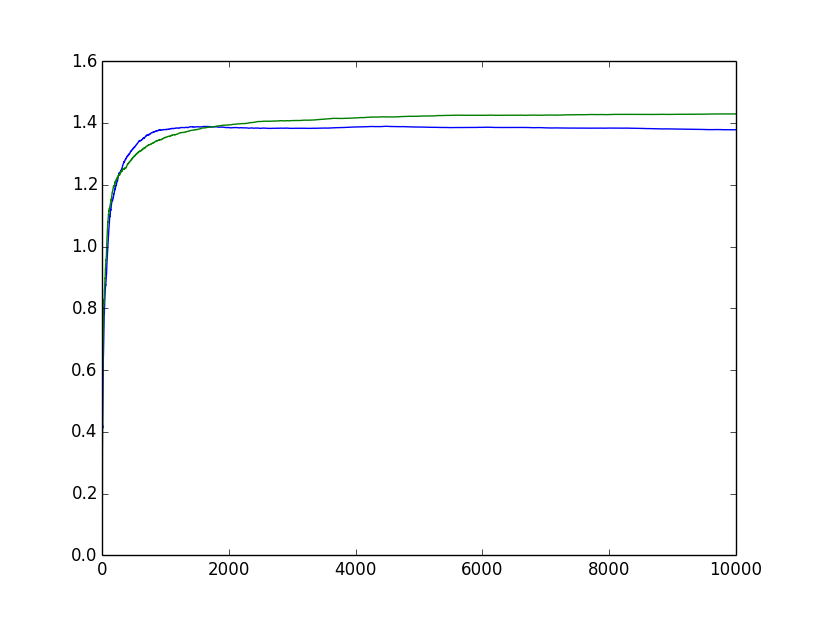
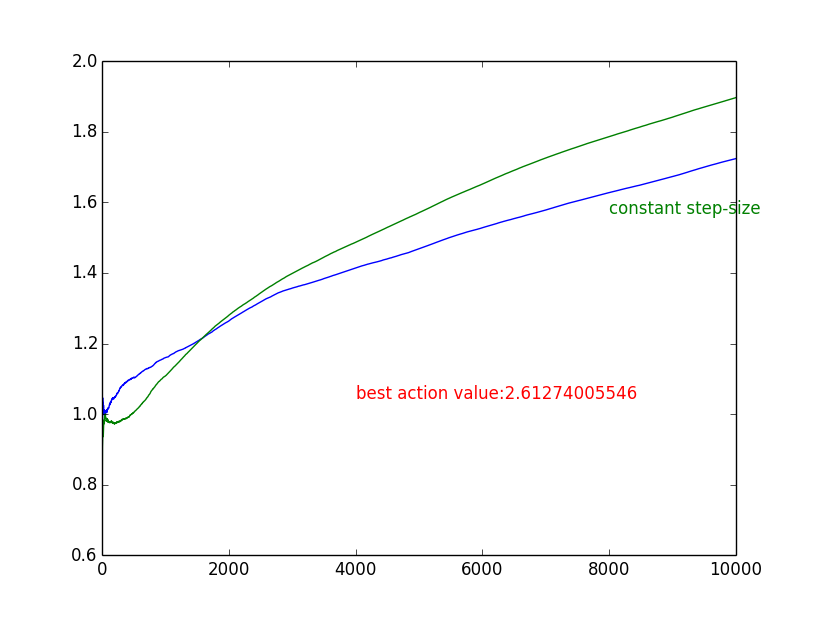
m

diff --git a/exercise/exec2.5.py b/exercise/exec2.5.py
@@ -1,26 +1,41 @@
 import numpy as np
 import time
 
+# np.random.seed(  9173 )
+
+
 means = [ 0.2, -0.8, 1.6, 0.4, 1.4,  -1.4 , -0.2, -0.9, 0.8 , -0.5  ]
 sigma = 0.6
 epsilon = 0.1
 
 nStep = 10000
-nExperiment = 20 #00 
+nExperiment = 30 #00 
 
+
+bMofified10Arm = True
+
+means_equal = np.array([ 1.0 ] * 10)
+means_random_walk = np.random.normal( loc=0.0, scale=0.01, size=( nExperiment , nStep , 10 ) )
 
 def bandit( A) :
-    return np.random.normal( means[A] , sigma  )
+    if bMofified10Arm:
+        return  np.random.normal( means_equal[A] , sigma  )
+    else:
+        return  np.random.normal( means[A] , sigma  )
 
 # for sample average
 averageRewards0 = np.zeros( ( nExperiment, nStep) )
 
 def sample_average_experiment( idx  ):
+    global means_equal
     nActions = len(means )
+
     Q = np.zeros( nActions )
     N = np.zeros( nActions, dtype=int )
 
     total = 0.0
+    if bMofified10Arm:
+        means_equal.fill( 1.0)
     # print Q 
     for i in xrange( nStep ) :
         if np.random.random() <= epsilon :
@@ -32,23 +47,29 @@ def sample_average_experiment( idx  ):
         N[A] = N[A] + 1
         Q[A] = Q[A] + (R - Q[A])/N[A] 
         
-        # 1. make Nonstationary 
-        Q[A] += np.random.normal( 0, 0.01 )
-        
         total += R 
         averageRewards0[idx][i] = total/(i+1)
+
+        if bMofified10Arm:
+            means_equal += means_random_walk[idx][i]
+
+
 
 
 # for constant step 
 averageRewards1 = np.zeros( ( nExperiment, nStep) )
 
 def constant_step_experiment( idx  ):
+    global means_equal
     nActions = len(means )
+
     Q = np.zeros( nActions )
     N = np.zeros( nActions, dtype=int )
 
     total = 0.0
     alpha = 0.1
+    if bMofified10Arm:
+        means_equal.fill( 1.0)
     # print Q 
     for i in xrange( nStep ) :
         if np.random.random() <= epsilon :
@@ -60,23 +81,27 @@ def constant_step_experiment( idx  ):
         N[A] = N[A] + 1
 
         # Q[A] = Q[A] + (R - Q[A])/N[A] 
-        # 2. the only change for a constant step 
+        # the only change for a constant step 
         Q[A] = Q[A] + alpha*( R - Q[A] )
 
-        # 1. make Nonstationary 
-        Q[A] += np.random.normal( 0, 0.01 )
-        
         total += R 
         averageRewards1[idx][i] = total/(i+1)
+
+        if bMofified10Arm:
+            means_equal += means_random_walk[idx][i]
 
 
 
 if __name__ == "__main__" :
     print max( means )
+
     for i in xrange( nExperiment ):
         sample_average_experiment(i)
     for i in xrange( nExperiment ):
         constant_step_experiment(i)
+
+    best_q =  1 + means_random_walk.sum( 1 ).max(1).mean()
+    print best_q
 
     averageReward4eachStep0 = averageRewards0.mean( 0 )
     averageReward4eachStep1 = averageRewards1.mean( 0 )
@@ -84,6 +109,10 @@ if __name__ == "__main__" :
     import matplotlib.pyplot as plt
     plt.plot( xrange( nStep ) ,    averageReward4eachStep0 )
     plt.plot( xrange( nStep ) ,    averageReward4eachStep1 )
+    plt.text( 8000,  best_q * 0.6 ,r'constant step-size' ,  color='green' )
+    plt.text( 4000,  best_q * 0.4 ,r'best action value:{}'.format( best_q ) ,  color='red' )
     plt.show()
+
+
 
     print "done"

diff --git a/README.md b/README.md
@@ -45,6 +45,10 @@ step size
 3.
 
 
+### 2.6 Optimistic Initial Values
+
+
+
 
 
 
